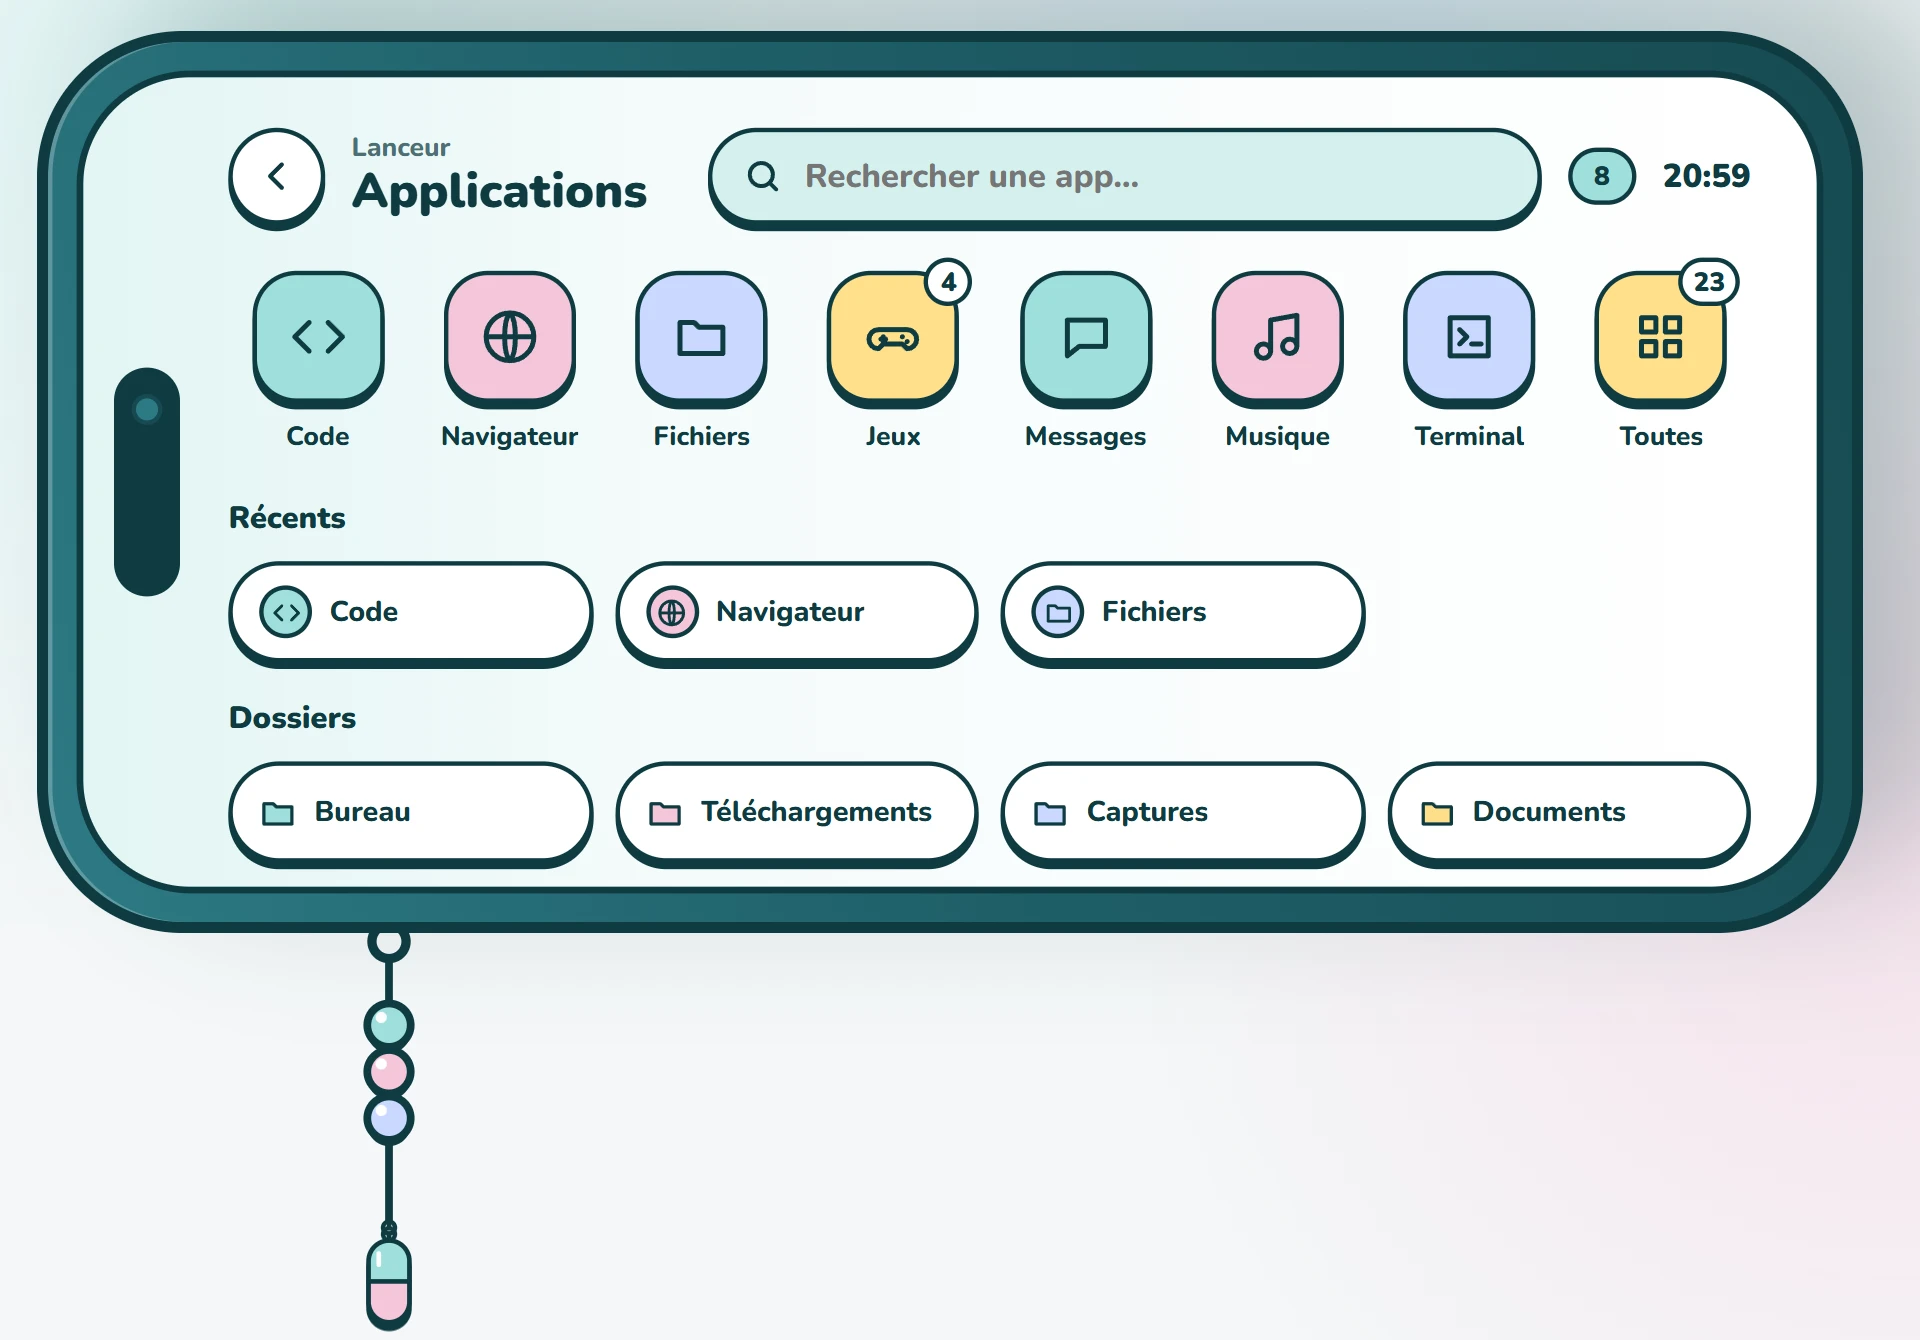
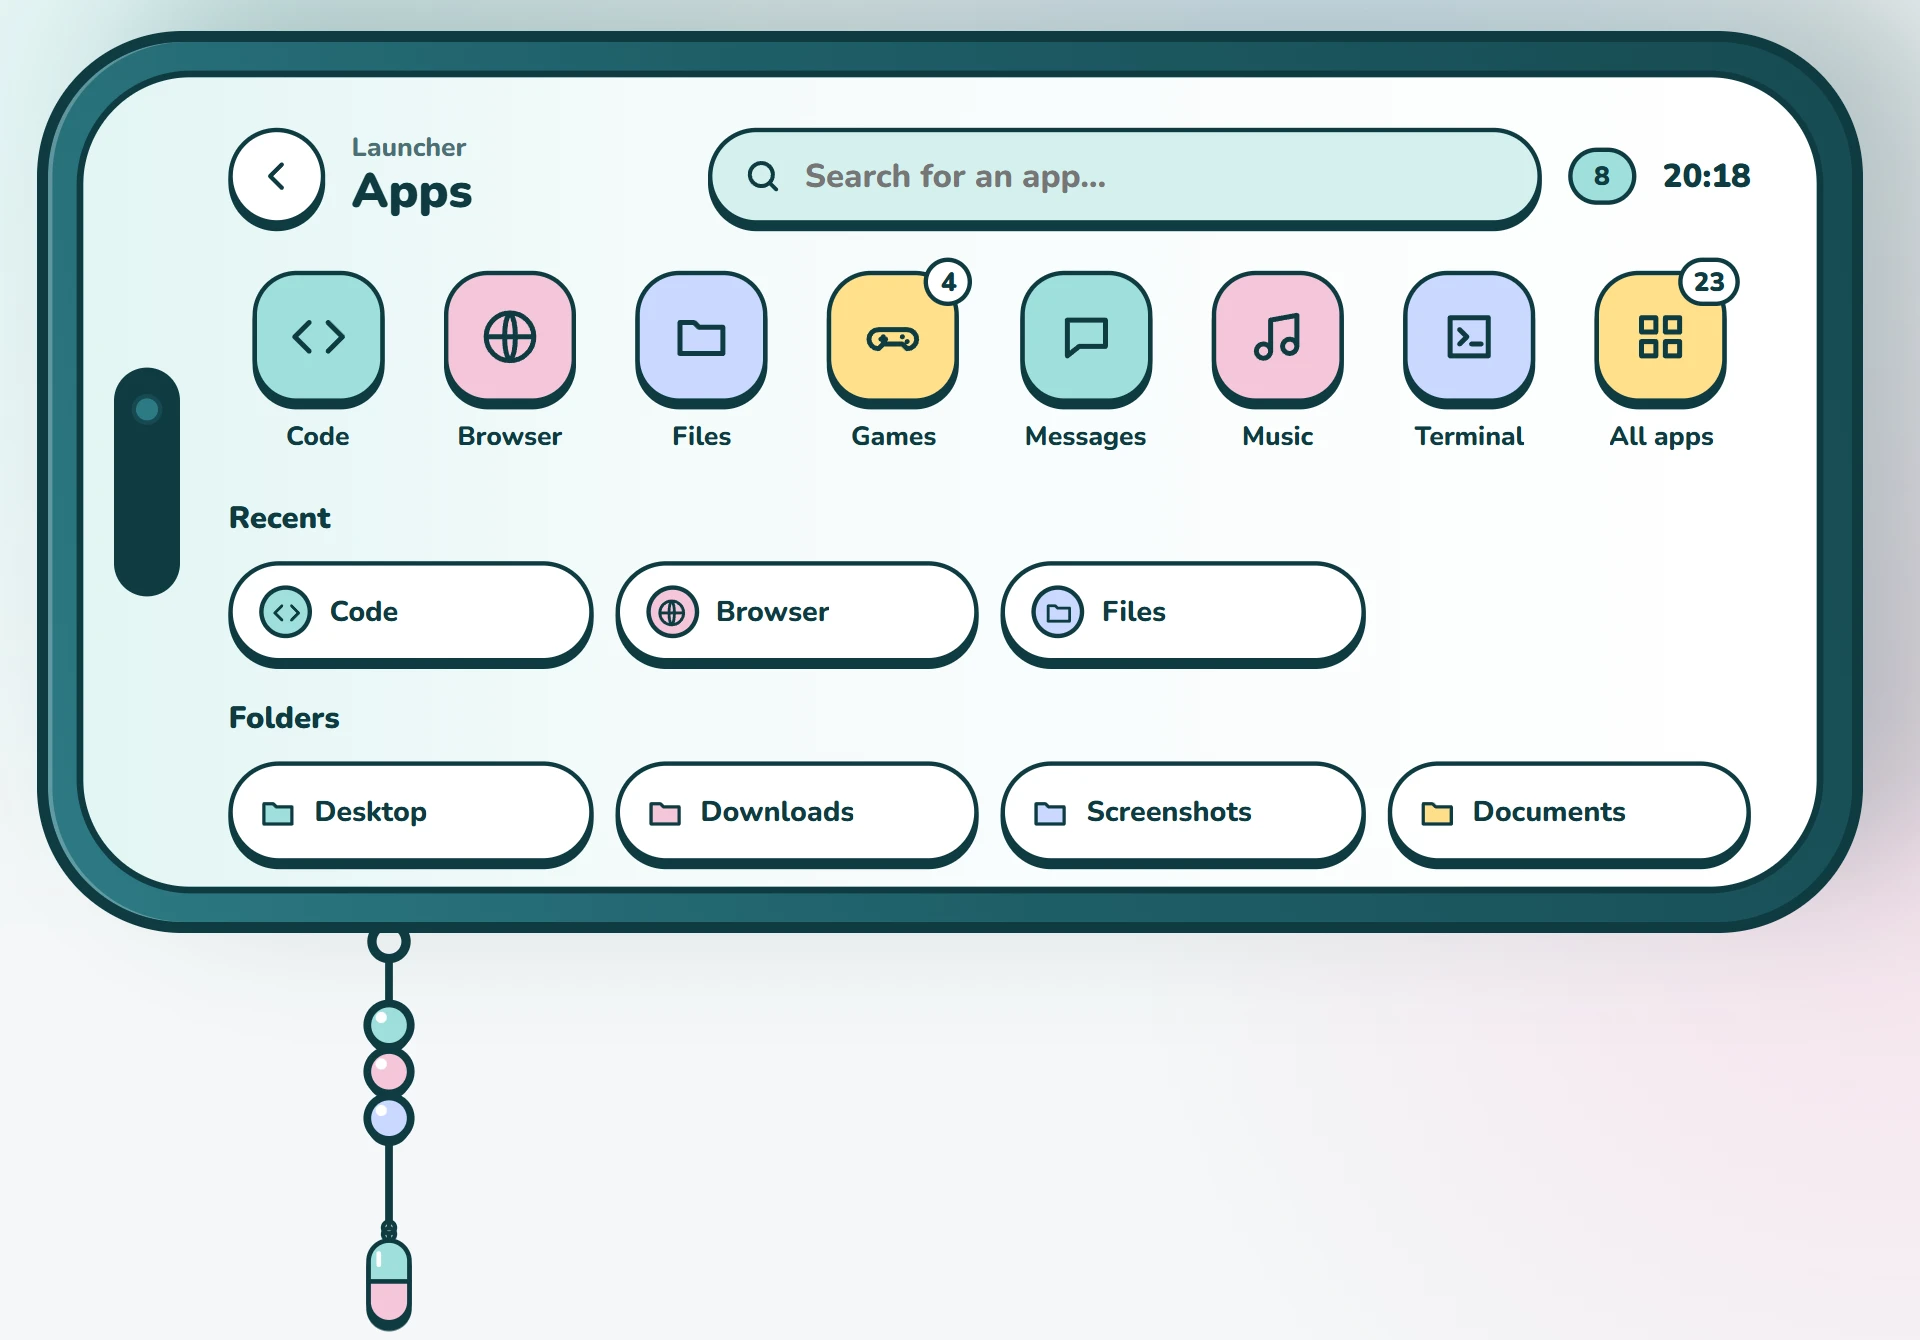
README screenshots in English
The four screenshots are retaken from the preview in English. The
Customize card now lives in the settings page, so the second one shows
the settings page (language, start with Windows, pastel bar, shortcut
and colors) instead.

diff --git a/CLAUDE.md b/CLAUDE.md
@@ -14,7 +14,7 @@ Utilisateur : Funsaiki, développeur (TypeScript, Vite, Lit). Il parle français
 - `apps.example.json` : exemple de configuration, même format que le premier lanceur.
 - `src/` : le front (Vite + TypeScript) ; `src-tauri/` : Rust.
 - `barre.html` : la barre pastel (en cours) ; aperçu `http://localhost:1420/barre.html` avec `npm run dev`.
-- `README.md` : la présentation du dépôt public (21/10/2026), en anglais (demande de Funsaiki ; les libellés de l'interface y sont cités en anglais, sa langue par défaut hors d'un Windows en français). Elle crédite l'inspiration du design, avec l'autorisation de son auteur : le post de u/Single-Flamingo-8194 sur r/unixporn. Les captures de `docs/` (WebP) viennent de l'aperçu navigateur, avec ses données d'exemple : rien de personnel. Les refaire si le design change. Pas de licence, choix de Funsaiki (21/10/2026) : le code se lit, mais ne se réutilise pas ; le README le dit (« All rights reserved »). Ne pas ajouter de fichier LICENSE sans sa demande.
+- `README.md` : la présentation du dépôt public (21/10/2026), en anglais (demande de Funsaiki ; les libellés de l'interface y sont cités en anglais, sa langue par défaut hors d'un Windows en français). Elle crédite l'inspiration du design, avec l'autorisation de son auteur : le post de u/Single-Flamingo-8194 sur r/unixporn. Les captures de `docs/` (WebP) viennent de l'aperçu navigateur en anglais (`?langue=en`, refaites le 22/10/2026), avec ses données d'exemple : rien de personnel. Les refaire si le design change (cadrages : vue réglages et page Paramètres 470 190 500 710, vue applications 230 230 960 670, barre 350 730 740 170 avec le lecteur ouvert ; échelle 2). Pas de licence, choix de Funsaiki (21/10/2026) : le code se lit, mais ne se réutilise pas ; le README le dit (« All rights reserved »). Ne pas ajouter de fichier LICENSE sans sa demande.
 
 ## Règles (à respecter impérativement)
 

diff --git a/README.md b/README.md
@@ -6,7 +6,7 @@ The design is inspired by a [Project Sekai inspired Hyprland setup](https://www.
 
 <p align="center">
   <img src="docs/reglages.webp" alt="The tilted phone: quick settings, volume, now playing and background apps" width="380">
-  <img src="docs/personnaliser.webp" alt="The Customize card: accent, case, screen and ink colors" width="380">
+  <img src="docs/parametres.webp" alt="The settings page: language, start with Windows, pastel bar, shortcut and colors" width="380">
 </p>
 <p align="center">
   <img src="docs/applications.webp" alt="The phone laid flat: apps, recents and folders" width="760">
